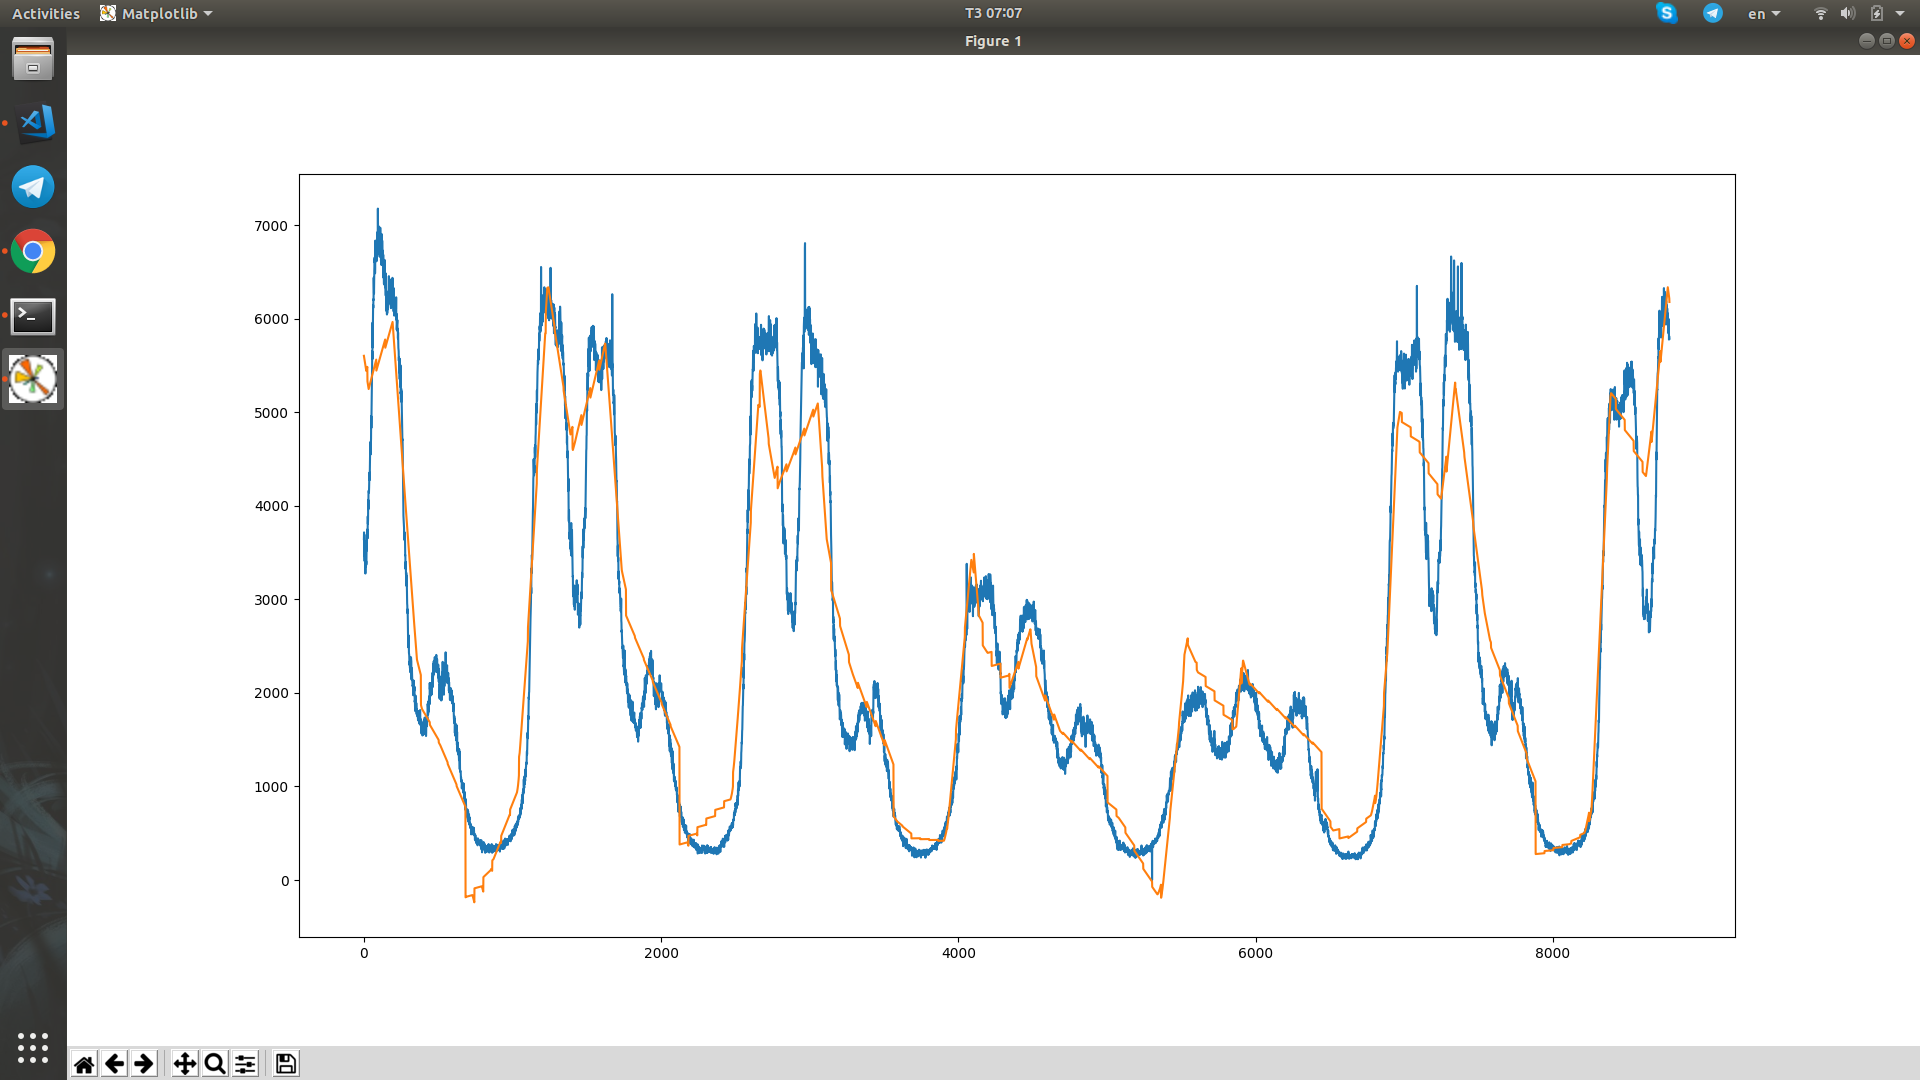
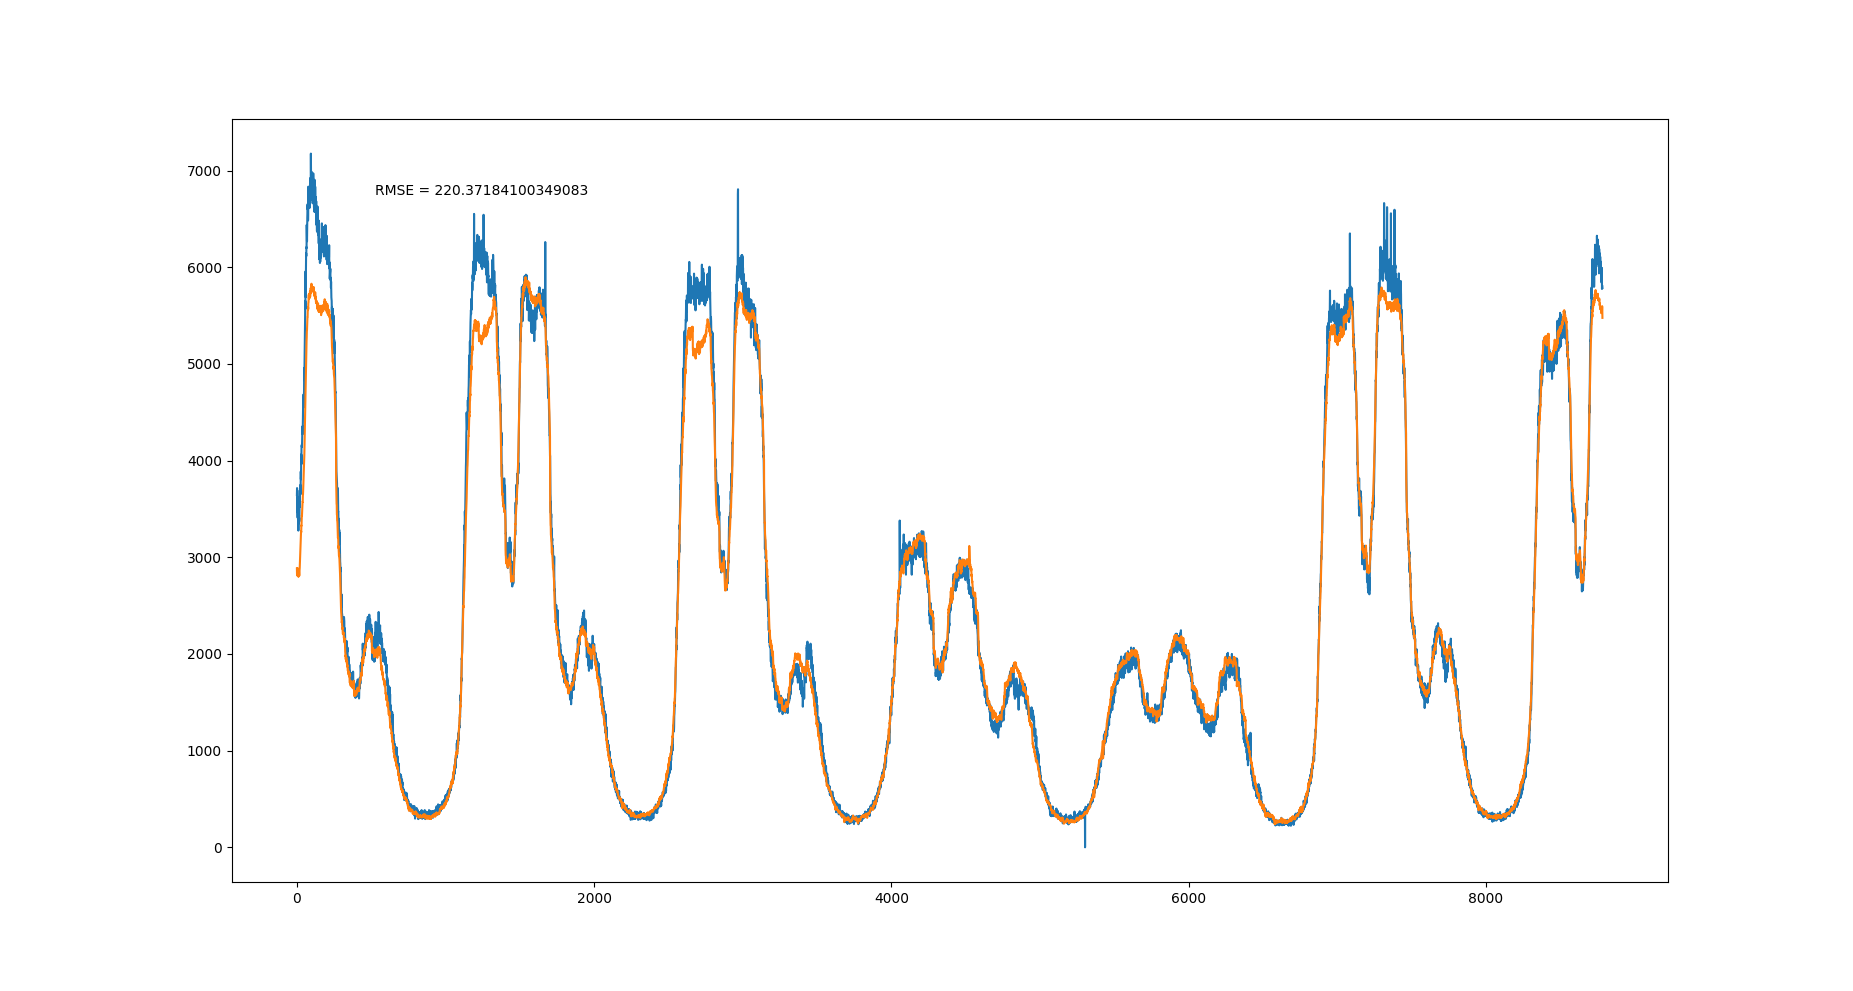
update

diff --git a/model.py b/model.py
@@ -1,9 +1,11 @@
 import numpy as np
 from sklearn.linear_model import LinearRegression, Lasso
-from sklearn.preprocessing import PolynomialFeatures, LabelEncoder, OneHotEncoder, StandardScaler
+from sklearn.preprocessing import PolynomialFeatures, LabelEncoder, OneHotEncoder, StandardScaler, OneHotEncoder
 from sklearn.neural_network import MLPRegressor
 from sklearn.svm import SVR
 from sklearn.ensemble import RandomForestRegressor, GradientBoostingRegressor
+from sklearn.metrics import mean_squared_error
+import math
 # from sklearn import preprocessing as pre
 import pandas as pd  
 import matplotlib.pyplot as plt 
@@ -13,13 +15,16 @@ def split_data(filename):
     df = pd.DataFrame(data.values)
     df.columns = ['Datetime', 'Pageview']
     # print(df.Datetime)
-    le_color = LabelEncoder()
     # print(df.Datetime)
     times = [datetime.strptime(x, '%Y-%m-%d %H:%M:%S') for x in df.values[:, 0]]
-    X = [[time.day, time.hour, time.minute, time.second] for time in times]
+    X = [[time.weekday(), time.hour, time.minute] for time in times]
     X = np.stack(X)
+    onehot = OneHotEncoder(sparse = False)
+    X = onehot.fit_transform(X)
     y = df.values[:, 1]
     train_rate = 0.9
+    # print(X)
+    # print(X.shape) 
     X_train = X[:int(len(X) * train_rate)]
     y_train = y[:int(len(X) * train_rate)]
     X_test = X[int(len(X) * train_rate):]
@@ -32,30 +37,32 @@ def split_data(filename):
 
 def train(filename):
     X_train, y_train, X_test, y_test = split_data(filename)
-    scaler = StandardScaler()
-    X_train = scaler.fit_transform(X_train)
-    X_test = scaler.fit_transform(X_test)
     # X_train = np.expand_dims(X_train, axis = 1)
     # X_train = scaler.fit_train
     # print(X_train)
     # X_test = np.expand_dims(X_test, axis = 1)
+
     reg_mlp = MLPRegressor(
-    hidden_layer_sizes=(250),  activation='relu', solver='adam', alpha=0.001, batch_size='auto',
-    learning_rate='adaptive', learning_rate_init=0.01, power_t=0.5, max_iter=500, shuffle=True,
+    hidden_layer_sizes=(100),  activation='relu', solver='adam', alpha=0.001, batch_size='auto',
+    learning_rate='adaptive', learning_rate_init=0.01, power_t=0.5, max_iter=100, shuffle=True,
     random_state=9, tol=0.0001, verbose=False, warm_start=False, momentum=0.9, nesterovs_momentum=True,
     early_stopping=False, validation_fraction=0.1, beta_1=0.9, beta_2=0.999, epsilon=1e-08)
-
-    # reg_svr = SVR(gamma = 'scale')
-    # reg_svr.fit(X_train, y_train)
-
+    reg_SVR = SVR(gamma = 'auto', kernel = 'linear', verbose = True, max_iter = 100, C = 1e-3, epsilon = 1e-3)
     reg_RFR = RandomForestRegressor(n_estimators = 50)
-    # reg_RFR.fit(X_train, y_train)
-    reg_GBR = GradientBoostingRegressor()
-    reg_mlp.fit(X_train, y_train)
+    reg_GBR = GradientBoostingRegressor(n_estimators = 50)
 
-    y_predict = reg_mlp.predict(X_test)
+    reg_SVR.fit(X_train, y_train)
+
+    print(reg_SVR.score(X_test, y_test))
+    y_predict = reg_SVR.predict(X_test)
+    RMSE = math.sqrt(mean_squared_error(y_test, y_predict))
+    
     plt.plot(y_test)
     plt.plot(y_predict)
+    plt.text(0.1,
+         0.9,
+         "RMSE = {}".format(RMSE),
+         transform=plt.gca().transAxes)
     plt.show()
 
 
